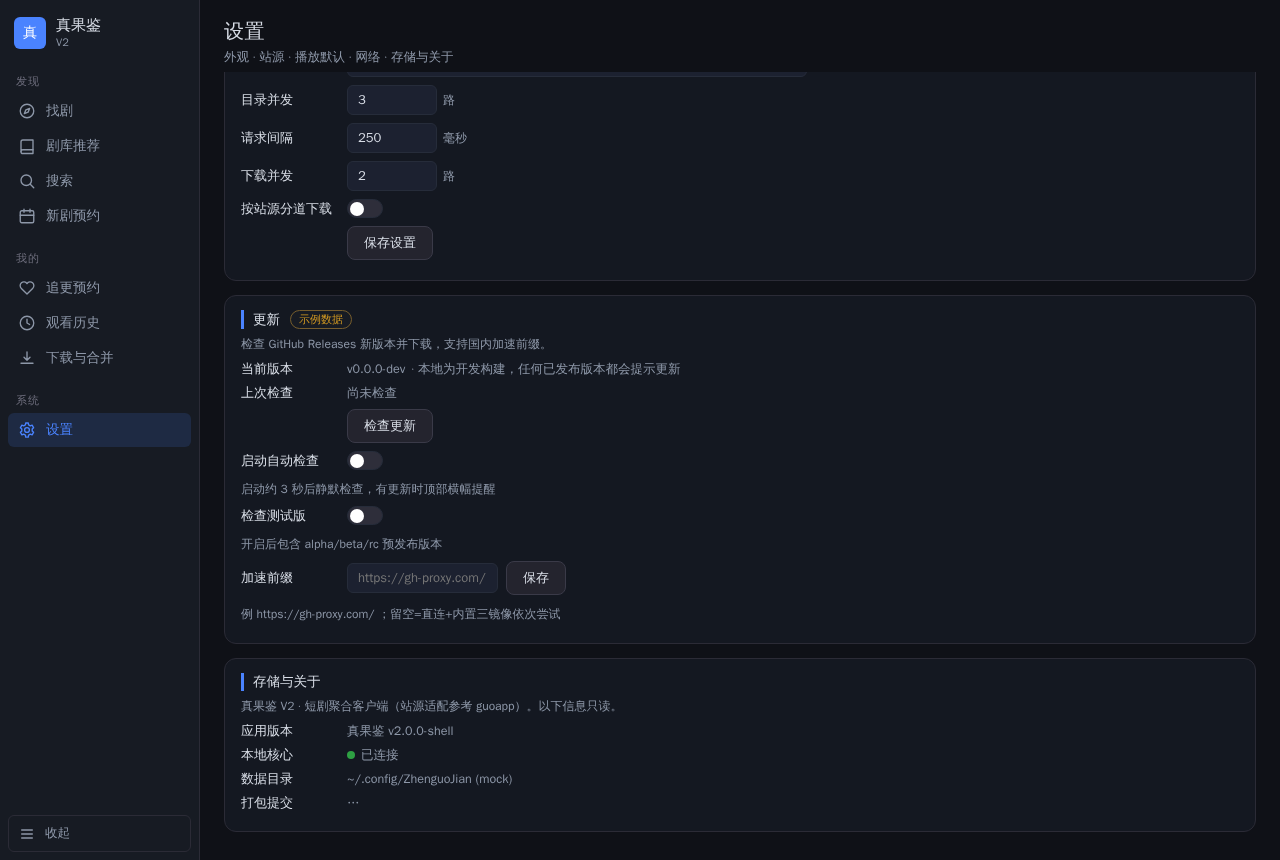
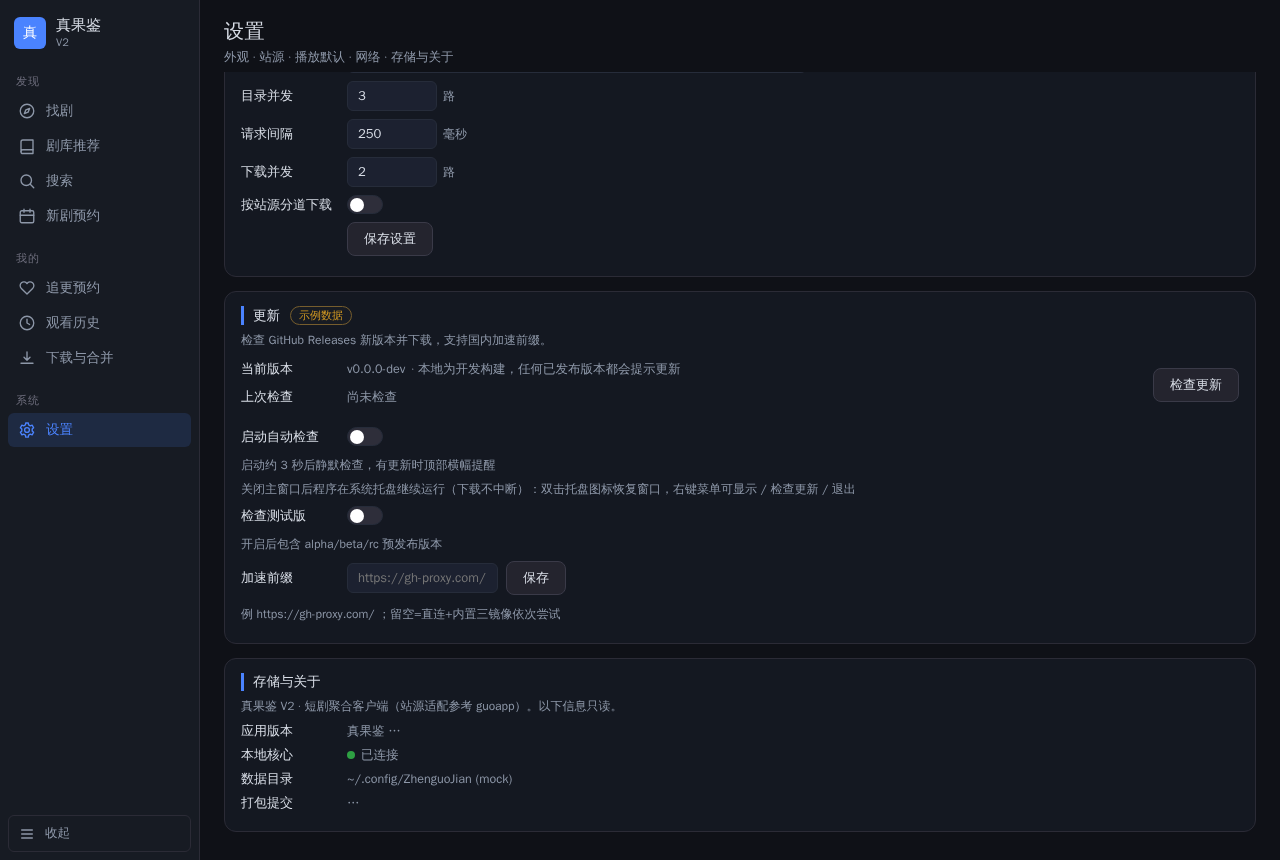
feat(client-v2): 更新区版式重排与发布说明净化
- 发布说明不再把 GitHub 的 markdown 资产表原样铺出来：新增净化器把表格行转成
  「文件 — 用途」短行、丢弃标题与分隔行，设置页折叠展示、顶部横幅取净化摘要
- 更新区版式：当前/最新/上次检查与检查按钮重排为紧凑网格，资产选择与下载按钮
  同行，已是最新态加勾标识
- 「应用版本」改读构建注入版本，不再显示写死的壳版本号
- 验证脚本适配新结构并修复前端目录推导，13/13 全过

diff --git a/client-v2/frontend/src/views/SettingsView.vue b/client-v2/frontend/src/views/SettingsView.vue
@@ -10,6 +10,7 @@ import SourceGrid from '@/components/settings/SourceGrid.vue'
 import SoraniLoginDialog from '@/components/SoraniLoginDialog.vue'
 import { api, MOCK_MODE } from '@/services/api'
 import { locale, setLocale, t, tf } from '@/services/i18n'
+import { cleanReleaseBody } from '@/services/updatenotes'
 import { applyTheme, loadTheme, type ThemeMode } from '@/styles/theme'
 import { useAppStore } from '@/stores/app'
 import type { SoraniStatus, UpdateAsset, UpdateCheckResult, UpdateDownloadState, UpdateStatus } from '@/services/types'
@@ -209,9 +210,8 @@ const updDownloadText = computed(() => {
   return ''
 })
 const updNotes = computed(() => {
-  const body = (updRelease.value?.body ?? '').trim()
-  if (!body) return t('update.notesEmpty')
-  return body.length > 300 ? body.slice(0, 300) + '… ' + t('update.notesTrunc') : body
+  const text = cleanReleaseBody(updRelease.value?.body ?? '')
+  return text || t('update.notesEmpty')
 })
 function fmtSize(n: number): string {
   if (!n) return '0 B'
@@ -327,7 +327,7 @@ watch(() => updSelectedAsset.value?.name, (n) => { if (n) updAssetSel.value = n 
 onBeforeUnmount(stopUpdPoll)
 
 /* ---------------- 存储与关于（只读） ---------------- */
-const APP_VERSION = '2.0.0-shell'
+const appVersionText = ref('…')
 const dataDir = ref('…')
 const coreOk = ref<boolean | null>(null)
 const commitText = ref('…')
@@ -397,6 +397,7 @@ onMounted(async () => {
   await loadNetwork()
   try {
     const bi = await api.buildInfo()
+    appVersionText.value = bi.version && bi.version !== 'v0.0.0-dev' ? bi.version : t('update.devVersion')
     commitText.value = bi.revision && bi.revision !== 'unknown'
       ? `${bi.revision.slice(0, 12)}${bi.commitTime ? ' · ' + bi.commitTime : ''}${bi.modified ? '（含未提交改动）' : ''}`
       : '未知（构建未注入版本信息）'
@@ -636,20 +637,26 @@ onMounted(async () => {
         <span v-if="MOCK_MODE" class="badge badge-warn">{{ t('settings.mockBadge') }}</span>
       </div>
       <div class="sec-hint">{{ t('update.hint') }}</div>
-      <div class="kv">
-        <span class="kv-k">{{ t('update.current') }}</span>
-        <span class="kv-v" data-testid="update-current">
-          {{ updStatus ? updStatus.current : '…' }}
-          <span v-if="updStatus?.dev" class="text-muted">· {{ t('update.devBadge') }}</span>
-        </span>
-      </div>
-      <div class="kv">
-        <span class="kv-k">{{ t('update.lastCheck') }}</span>
-        <span class="kv-v">{{ lastCheckText }}</span>
-      </div>
-      <div class="field">
-        <label class="field-label"></label>
-        <div class="field-control save-row">
+      <div class="upd-status-grid">
+        <div class="kv">
+          <span class="kv-k">{{ t('update.current') }}</span>
+          <span class="kv-v" data-testid="update-current">
+            <span class="upd-ver">{{ updStatus ? updStatus.current || t('update.devVersion') : '…' }}</span>
+            <span v-if="updStatus?.dev" class="text-muted">· {{ t('update.devBadge') }}</span>
+          </span>
+        </div>
+        <div v-if="updResult?.available && updRelease" class="kv" data-testid="update-latest-row">
+          <span class="kv-k">{{ t('update.latestTag') }}</span>
+          <span class="kv-v">
+            <span class="upd-ver">{{ updRelease.tag }}</span>
+            <span class="badge badge-warn upd-new-badge">{{ t('update.badgeNew') }}</span>
+          </span>
+        </div>
+        <div class="kv">
+          <span class="kv-k">{{ t('update.lastCheck') }}</span>
+          <span class="kv-v">{{ lastCheckText }}</span>
+        </div>
+        <div class="upd-check-cell">
           <button class="btn" data-testid="update-check-btn" :disabled="updChecking" @click="doUpdateCheck(false)">
             {{ updChecking ? t('update.checking') : t('update.check') }}
           </button>
@@ -662,20 +669,18 @@ onMounted(async () => {
           <div class="upd-new" data-testid="update-available-line">
             {{ tf('update.available', { tag: updRelease.tag, date: updRelease.publishedAt ? new Date(updRelease.publishedAt).toLocaleString() : '—' }) }}
           </div>
-          <div class="upd-notes" data-testid="update-notes">{{ updNotes }}</div>
-          <div class="field">
+          <details class="upd-details" data-testid="update-notes-details">
+            <summary>{{ t('update.notesTitle') }}</summary>
+            <pre class="upd-notes" data-testid="update-notes">{{ updNotes }}</pre>
+          </details>
+          <div class="field upd-asset-row">
             <label class="field-label">{{ t('update.asset') }}</label>
-            <div class="field-control">
-              <select v-model="updAssetSel" class="ctl" data-testid="update-asset-select">
+            <div class="field-control save-row">
+              <select v-model="updAssetSel" class="ctl upd-asset-select" data-testid="update-asset-select">
                 <option v-for="a in updAssets" :key="a.name" :value="a.name">
-                  {{ a.name === 'zhenGuoJian-v2.exe' ? t('update.asset.exe') : a.name === 'zhenGuoJian-v2-app.zip' ? t('update.asset.appzip') : a.name }}({{ fmtSize(a.size) }})
+                  {{ a.name === 'zhenGuoJian-v2.exe' ? t('update.asset.exe') : a.name === 'zhenGuoJian-v2-app.zip' ? t('update.asset.appzip') : a.name }} ({{ fmtSize(a.size) }}) 
                 </option>
               </select>
-            </div>
-          </div>
-          <div class="field">
-            <label class="field-label"></label>
-            <div class="field-control save-row">
               <button
                 v-if="!updDownload || updDownload.state !== 'downloading'"
                 class="btn"
@@ -700,7 +705,7 @@ onMounted(async () => {
           </div>
         </template>
         <template v-else-if="updResult?.skippedTag">{{ tf('update.skipped', { tag: updResult.skippedTag }) }}</template>
-        <template v-else>{{ t('update.latest') }}</template>
+        <template v-else><span class="upd-ok" data-testid="update-latest-line">✓ {{ t('update.latest') }}</span></template>
         <span v-if="updResult?.cooldown" class="text-muted"> · {{ t('update.cooldown') }}</span>
         <div v-if="updApplyMsg" data-testid="update-apply-msg">{{ updApplyMsg }}</div>
       </div>
@@ -763,7 +768,7 @@ onMounted(async () => {
       <div class="sec-hint">{{ t('settings.storage.hint') }}</div>
       <div class="kv">
         <span class="kv-k">{{ t('settings.storage.version') }}</span>
-        <span class="kv-v">真果鉴 v{{ APP_VERSION }}</span>
+        <span class="kv-v selectable">真果鉴 {{ appVersionText }}</span>
       </div>
       <div class="kv">
         <span class="kv-k">{{ t('settings.storage.core') }}</span>
@@ -968,5 +973,45 @@ onMounted(async () => {
 .kv-v.selectable {
   cursor: text;
   user-select: text;
+}
+
+/* V-UPD 更新区版式（alpha.24 UI 优化） */
+.upd-status-grid {
+  display: grid;
+  grid-template-columns: 1fr auto;
+  gap: 4px 16px;
+  align-items: center;
+  margin: 8px 0 10px;
+}
+.upd-status-grid .kv { grid-column: 1; }
+.upd-check-cell {
+  grid-column: 2;
+  grid-row: 1 / span 3;
+  align-self: center;
+}
+.upd-ver { font-weight: 600; }
+.upd-new-badge { margin-left: 8px; }
+.upd-details { margin: 8px 0; }
+.upd-details summary {
+  cursor: pointer;
+  color: var(--muted, #8b93a7);
+  font-size: 13px;
+}
+.upd-details .upd-notes { margin-top: 6px; }
+.upd-notes {
+  white-space: pre-wrap;
+  font-family: inherit;
+  font-size: 13px;
+  margin: 0;
+  max-height: 180px;
+  overflow-y: auto;
+}
+.upd-asset-row .upd-asset-select {
+  flex: 1;
+  min-width: 220px;
+}
+.upd-ok {
+  color: var(--success, #2ea043);
+  font-weight: 600;
 }
 </style>

diff --git a/client-v2/frontend/src/App.vue b/client-v2/frontend/src/App.vue
@@ -1,10 +1,11 @@
 <script setup lang="ts">
-import { onBeforeUnmount, onMounted, ref } from 'vue'
+import { computed, onBeforeUnmount, onMounted, ref } from 'vue'
 import NavRail from '@/components/NavRail.vue'
 import { useAppStore } from '@/stores/app'
 import { setupContextMenu } from '@/services/contextMenu' // V2-6 右键菜单：全局一处挂载
 import { api } from '@/services/api'
 import { t, tf } from '@/services/i18n'
+import { cleanReleaseBody } from '@/services/updatenotes'
 import type { UpdateAvailableEvent } from '@/services/types'
 
 const store = useAppStore()
@@ -12,6 +13,15 @@ setupContextMenu()
 
 /* ── V-UPD 全局顶部更新横幅（update:available 事件驱动；无事件永不出条） ── */
 const updBanner = ref<UpdateAvailableEvent | null>(null)
+
+/* 横幅摘要：release body 常是 markdown（CI 自动生成的资产对照表），直接截 60 字
+   会露出「## | 文件 | 用途 |」噪音——先净化再截。 */
+const updBannerSum = computed(() => {
+  const body = updBanner.value?.body ?? ''
+  if (!body) return ''
+  const text = cleanReleaseBody(body, 200).replace(/\s+/g, ' ').trim()
+  return text.length > 90 ? text.slice(0, 90) + '…' : text
+})
 let offBus: (() => void) | undefined
 
 function onUpdAvailable(payload: UpdateAvailableEvent) {
@@ -47,7 +57,7 @@ async function updSkipVersion() {
       <div v-if="updBanner" class="upd-banner" data-testid="update-banner">
         <span class="upd-banner-text">
           {{ tf('update.banner', { tag: updBanner.tag }) }}
-          <em v-if="updBanner.body" class="upd-banner-sum">{{ updBanner.body.slice(0, 60).replace(/\s+/g, ' ') }}…</em>
+          <em v-if="updBannerSum" class="upd-banner-sum">{{ updBannerSum }}</em>
         </span>
         <button class="upd-banner-btn" data-testid="update-banner-go" @click="updGoSettings">{{ t('update.banner.go') }}</button>
         <button class="upd-banner-btn upd-banner-ghost" data-testid="update-banner-skip" @click="updSkipVersion">{{ t('update.banner.skip') }}</button>

diff --git a/client-v2/frontend/src/services/updatenotes.ts b/client-v2/frontend/src/services/updatenotes.ts
@@ -1,0 +1,25 @@
+/**
+ * 发布说明净化：GitHub Release body 常带 markdown（CI 自动生成的资产对照表就是
+ * 表格），直接铺在设置页里就是一坨「|---|」噪音。这里把 body 压成纯文本行：
+ * 标题行丢弃（版本/日期已有专门行）、表格分隔行丢弃、表格数据行转「文件 — 用途」、
+ * 其余行去 ** 加粗记号原样保留。
+ */
+export function cleanReleaseBody(body: string, max = 600): string {
+  const out: string[] = []
+  for (const raw of (body || '').split(/\r?\n/)) {
+    const line = raw.trim()
+    if (!line) continue
+    if (/^#+\s/.test(line)) continue
+    if (/^\|[\s:|-]+\|?$/.test(line)) continue
+    if (line.startsWith('|')) {
+      const cells = line.replace(/^\|/, '').replace(/\|$/, '').split('|').map((c) => c.trim().replace(/\*\*/g, ''))
+      const meaningful = cells.filter((c) => c && !/^(文件|用途|File|Purpose)$/i.test(c))
+      if (meaningful.length >= 2) out.push('· ' + meaningful.slice(0, 2).join(' — '))
+      else if (meaningful.length === 1) out.push('· ' + meaningful[0])
+      continue
+    }
+    out.push(line.replace(/\*\*/g, ''))
+  }
+  const text = out.join('\n')
+  return text.length > max ? text.slice(0, max) + '…' : text
+}

diff --git a/client-v2/frontend/src/services/i18n.ts b/client-v2/frontend/src/services/i18n.ts
@@ -147,6 +147,10 @@ const zh: Record<string, string> = {
   'update.failed': '检查失败：{msg}',
   'update.published': '发布时间',
   'update.notes': '更新说明',
+  'update.notesTitle': '本版本说明',
+  'update.latestTag': '最新版本',
+  'update.badgeNew': '可更新',
+  'update.devVersion': '开发构建',
   'update.notesEmpty': '（无说明）',
   'update.notesTrunc': '（截断显示，前 300 字）',
   'update.autocheck': '启动自动检查',
@@ -606,6 +610,10 @@ const en: Record<string, string> = {
   'update.failed': 'Check failed: {msg}',
   'update.published': 'Published',
   'update.notes': 'Release notes',
+  'update.notesTitle': 'Changes in this version',
+  'update.latestTag': 'Latest',
+  'update.badgeNew': 'update available',
+  'update.devVersion': 'dev build',
   'update.notesEmpty': '(no notes)',
   'update.notesTrunc': '(truncated to first 300 chars)',
   'update.autocheck': 'Auto-check on startup',

diff --git a/client-v2/frontend/src/services/types.ts b/client-v2/frontend/src/services/types.ts
@@ -569,6 +569,7 @@ export interface BuildInfo {
   revision?: string
   commitTime?: string
   modified?: boolean
+  version?: string
 }
 
 /** 带协议 code 的错误（discovery_unavailable / source_blocked 等） */

diff --git a/client-v2/frontend/verification/update_verify.py b/client-v2/frontend/verification/update_verify.py
@@ -26,8 +26,10 @@ import sys
 import time
 
 HERE = os.path.dirname(os.path.abspath(__file__))
+# 自适应：脚本约定在 client-v2/frontend/verification/；若被放到仓库根 verification/ 也能跑
+_ROOT_ALT = os.path.normpath(os.path.join(HERE, "..", "..", "client-v2", "frontend"))
 ROOT = os.path.dirname(HERE)
-FRONTEND = os.path.join(ROOT, "client-v2", "frontend")
+FRONTEND = ROOT if os.path.basename(ROOT) == "frontend" else _ROOT_ALT
 PORT = 5189
 BASE = f"http://127.0.0.1:{PORT}"
 EXEC = os.path.expanduser(
